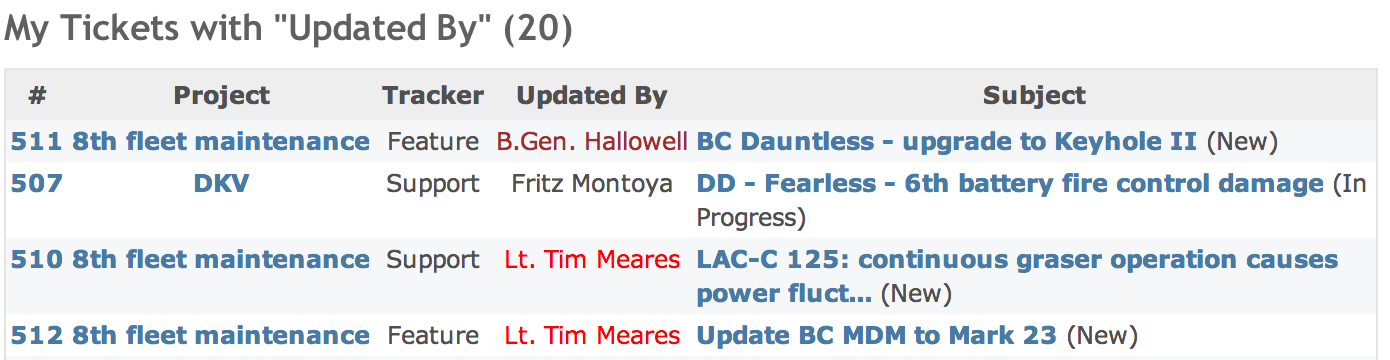
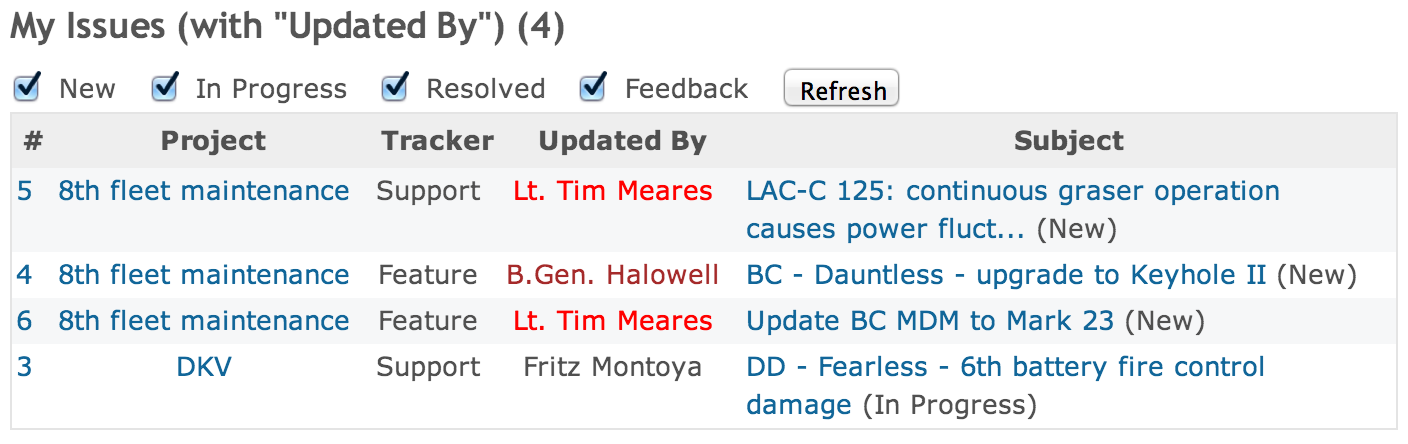
updated screenshots

diff --git a/README.md b/README.md
@@ -5,19 +5,19 @@ update but does not display the name of who made that update.
 LastUpdatedBy plugin fixes that and adds "Updated By" column which shows user name in 
 `<First Name> <Last Name>` form and can be displayed on:
 
-- Issues list (as extra column)
+- Issues list (as extra column "Updated By")
 - My page (as a separate component)
 
 New "Updated By" column is not a real Database column, its value is generated on
-the fly when Redmine renders Issues list. The column is sortable but not
-groupable of filterable.
+the fly when Redmine renders Issues list.  
 
 Note: on /issues page (for Issues without updates) "Updated By" is blank by
-design.
+design. Unlike "Updated By" on "My Page" the "Updated By" column on /issues
+page does not support colour coding.
 
 ## "My Page" Screenshots
 
-"Updated By" Colour Legend:  
+"Updated By" Colour Legend (default colours):  
 - Red - updated by author  
 - Brown - updated by a 3rd person (neither author nor assignee)
 - Black - updated by assignee
@@ -26,6 +26,10 @@ design.
 !["Tickets assigned to me"](https://github.com/neowit/redmine_last_updated_by_column/raw/master/Screenshots/My-Page-original.png)
 
 ![My Tickets with "Updated By"](https://github.com/neowit/redmine_last_updated_by_column/raw/master/Screenshots/My-Page-custom.png)
+
+## "Issues" page screenshot
+
+!["Available Columns with 'Updated By'"](https://github.com/neowit/redmine_last_updated_by_column/raw/master/Screenshots/Available_Columns-Updated_By.png)
 
 ## Redmine version
 
